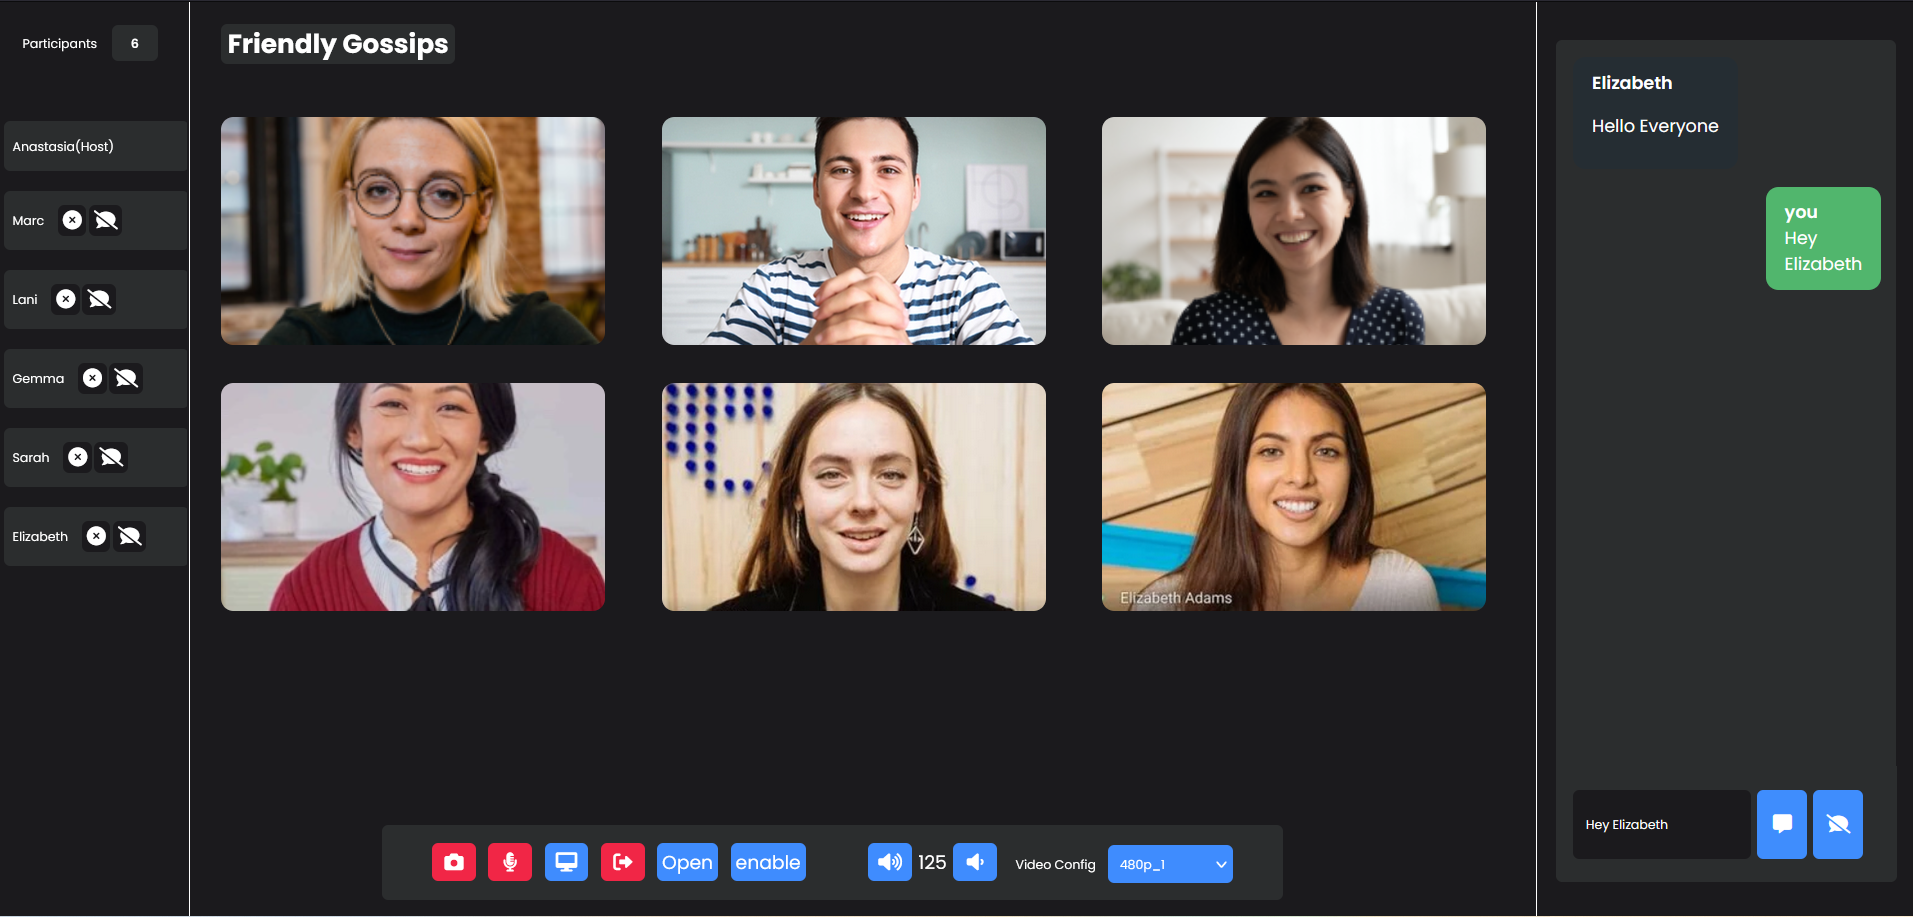
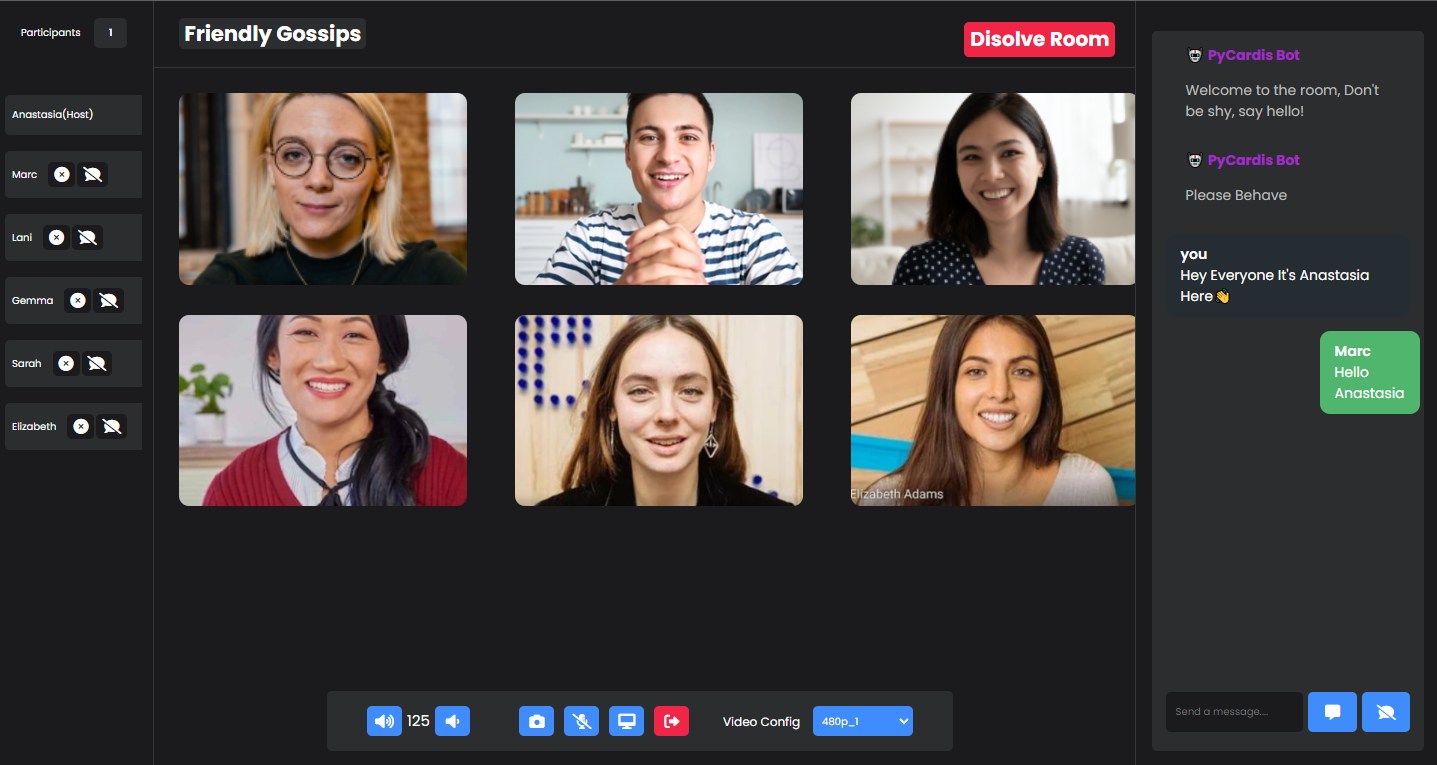
Added Updated Preview

diff --git a/src/components/RoomComponents/ChatRoom.js b/src/components/RoomComponents/ChatRoom.js
@@ -4,16 +4,16 @@ import { createChannel } from 'agora-rtm-react'
 import '../../Styles/room.css'
 import AgoraRTM from 'agora-rtm-sdk'
 
-import {  useSelector } from "react-redux";
+import { useSelector } from "react-redux";
 
-import {  selectUser } from "./../../features/userSlice";
+import { selectUser } from "./../../features/userSlice";
 import { useNavigate } from 'react-router-dom';
 const USER_ID = Math.floor(Math.random() * 1000000001);
 let type = 'bot';
 const useChannel = createChannel('TV')
 const client = AgoraRTM.createInstance(process.env.REACT_APP_AGORA_APP_ID);
 function ChatRoom(props) {
-   
+
     const testChannel = useChannel(client);
     const [texts, setTexts] = useState([]);
     const [uid, setUid] = useState('');
@@ -26,7 +26,7 @@ function ChatRoom(props) {
     const tracks = props.tracks;
     const clientRTC = props.clientRTC;
     const navigate = useNavigate();
-   // let uid2 = props.uid;
+    // let uid2 = props.uid;
     let { disolve } = props;
     const sendMsg = async (text, hide) => {
         console.log(disolve);
@@ -140,27 +140,27 @@ function ChatRoom(props) {
         navigate('/Lobby');
 
     }
-/*    const toggleVideo = async (uid) => {
-        var peerId = uid.toString();
-        console.warn(peerId);
-        console.warn("Remote Video Button Pressed");
-        let peerMessage = "video";
-        await client.sendMessageToPeer(
-            { text: peerMessage },
-            uid,
-        ).then(sendResult => {
-            if (sendResult.hasPeerReceived) {
-                console.warn(sendResult.hasPeerReceived);
-                //document.getElementById("log").appendChild(document.createElement('div')).append("Message has been received by: " + peerId + " Message: " + peerMessage)
-
-            } else {
-                console.warn(sendResult.hasPeerReceived);
-                //document.getElementById("log").appendChild(document.createElement('div')).append("Message sent to: " + peerId + " Message: " + peerMessage)
-
-            }
-        })
-    }
-    */
+    /*    const toggleVideo = async (uid) => {
+            var peerId = uid.toString();
+            console.warn(peerId);
+            console.warn("Remote Video Button Pressed");
+            let peerMessage = "video";
+            await client.sendMessageToPeer(
+                { text: peerMessage },
+                uid,
+            ).then(sendResult => {
+                if (sendResult.hasPeerReceived) {
+                    console.warn(sendResult.hasPeerReceived);
+                    //document.getElementById("log").appendChild(document.createElement('div')).append("Message has been received by: " + peerId + " Message: " + peerMessage)
+    
+                } else {
+                    console.warn(sendResult.hasPeerReceived);
+                    //document.getElementById("log").appendChild(document.createElement('div')).append("Message sent to: " + peerId + " Message: " + peerMessage)
+    
+                }
+            })
+        }
+        */
     const action = async (uid, action) => {
         let text = "Action:" + action + "->User:" + uid;
         console.warn(text);
@@ -190,73 +190,73 @@ function ChatRoom(props) {
                 <div id="members__header">
                     <p>Participants</p>
                     <strong id="members__count">{users.length}</strong>
-                    
+
                 </div>
 
                 <div id="member__list">
-                   
-                    <div  className="member__wrapper" id="member__1__wrapper">
+
+                    <div className="member__wrapper" id="member__1__wrapper">
 
 
-                     <p  style={{marginLeft:'7px'}}  className="member_name">Anastasia(Host)</p>
+                        <p style={{ marginLeft: '7px' }} className="member_name">Anastasia(Host)</p>
 
 
-           </div>
-           <div  className="member__wrapper" id="member__1__wrapper">
+                    </div>
+                    <div className="member__wrapper" id="member__1__wrapper">
 
 
-                     <p  style={{marginLeft:'7px'}}  className="member_name">Marc </p>
+                        <p style={{ marginLeft: '7px' }} className="member_name">Marc </p>
 
-                     <div style={{display:'inherit'}}>
-                          <button ><i class="fa-solid fa-circle-xmark"></i></button>
+                        <div style={{ display: 'inherit' }}>
+                            <button ><i class="fa-solid fa-circle-xmark"></i></button>
 
-                          <button><i class="fa-solid fa-comment-slash"></i></button>
-                     </div>
-           </div>
-           <div  className="member__wrapper" id="member__1__wrapper">
-
-
-                     <p  style={{marginLeft:'7px'}}  className="member_name">Lani </p>
-
-                     <div style={{display:'inherit'}}>
-                          <button ><i class="fa-solid fa-circle-xmark"></i></button>
-
-                          <button><i class="fa-solid fa-comment-slash"></i></button>
-                     </div>
-           </div>
-           <div  className="member__wrapper" id="member__1__wrapper">
+                            <button><i class="fa-solid fa-comment-slash"></i></button>
+                        </div>
+                    </div>
+                    <div className="member__wrapper" id="member__1__wrapper">
 
 
-                     <p  style={{marginLeft:'7px'}}  className="member_name">Gemma </p>
+                        <p style={{ marginLeft: '7px' }} className="member_name">Lani </p>
 
-                     <div style={{display:'inherit'}}>
-                          <button ><i class="fa-solid fa-circle-xmark"></i></button>
+                        <div style={{ display: 'inherit' }}>
+                            <button ><i class="fa-solid fa-circle-xmark"></i></button>
 
-                          <button><i class="fa-solid fa-comment-slash"></i></button>
-                     </div>
-           </div>
-           <div  className="member__wrapper" id="member__1__wrapper">
-
-
-                     <p  style={{marginLeft:'7px'}}  className="member_name">Sarah </p>
-
-                     <div style={{display:'inherit'}}>
-                          <button ><i class="fa-solid fa-circle-xmark"></i></button>
-
-                          <button><i class="fa-solid fa-comment-slash"></i></button>
-                     </div>
-           </div>
-           <div  className="member__wrapper" id="member__1__wrapper">
+                            <button><i class="fa-solid fa-comment-slash"></i></button>
+                        </div>
+                    </div>
+                    <div className="member__wrapper" id="member__1__wrapper">
 
 
-                     <p  style={{marginLeft:'7px'}}  className="member_name">Elizabeth </p>
+                        <p style={{ marginLeft: '7px' }} className="member_name">Gemma </p>
 
-                     <div style={{display:'inherit'}}>
-                          <button ><i class="fa-solid fa-circle-xmark"></i></button>
+                        <div style={{ display: 'inherit' }}>
+                            <button ><i class="fa-solid fa-circle-xmark"></i></button>
 
-                          <button><i class="fa-solid fa-comment-slash"></i></button>
-                     </div>
-           </div>
+                            <button><i class="fa-solid fa-comment-slash"></i></button>
+                        </div>
+                    </div>
+                    <div className="member__wrapper" id="member__1__wrapper">
+
+
+                        <p style={{ marginLeft: '7px' }} className="member_name">Sarah </p>
+
+                        <div style={{ display: 'inherit' }}>
+                            <button ><i class="fa-solid fa-circle-xmark"></i></button>
+
+                            <button><i class="fa-solid fa-comment-slash"></i></button>
+                        </div>
+                    </div>
+                    <div className="member__wrapper" id="member__1__wrapper">
+
+
+                        <p style={{ marginLeft: '7px' }} className="member_name">Elizabeth </p>
+
+                        <div style={{ display: 'inherit' }}>
+                            <button ><i class="fa-solid fa-circle-xmark"></i></button>
+
+                            <button><i class="fa-solid fa-comment-slash"></i></button>
+                        </div>
+                    </div>
                     {/* {users.slice(1, 10).map(user => (
                         <div key={user.uid} className="member__wrapper" id="member__1__wrapper">
 
@@ -283,19 +283,36 @@ function ChatRoom(props) {
             <section id="messages__container">
 
                 <div id="messages">
-                    {/* <div className="message__wrapper">
-            <div className="message__body__bot">
-                <strong className="message__author__bot">🤖 PyCardis Bot</strong>
-                <p className="message__text__bot">Welcome to the room, Don't be shy, say hello!</p>
-            </div>
-        </div>
+                    <div className="message__wrapper">
+                        <div className="message__body__bot">
+                            <strong className="message__author__bot">🤖 PyCardis Bot</strong>
+                            <p className="message__text__bot">Welcome to the room, Don't be shy, say hello!</p>
+                        </div>
+                    </div>
 
-        <div className="message__wrapper">
-            <div className="message__body__bot">
-                <strong className="message__author__bot">🤖 PyCardis Bot</strong>
-                <p className="message__text__bot">Dennis Ivy just entered the room!</p>
-            </div>
-        </div> */}
+                    <div className="message__wrapper">
+                        <div className="message__body__bot">
+                            <strong className="message__author__bot">🤖 PyCardis Bot</strong>
+                            <p className="message__text__bot">Please Behave
+                            </p>
+                        </div>
+                    </div>
+                    <div  style={{ color: 'white', marginLeft:  '1em'  }} onClick={(e) => {
+                    }} className="message__wrapper">
+                        <div style={{ color: 'white', backgroundColor:  '#252D33'  }} className={`message__body`}>
+                            <strong style={{ color: 'white' }} className="message__author">you</strong>
+
+                            <p className={`message__text`}>Hey Everyone It's Anastasia Here👋</p>
+                        </div>
+                    </div>
+                    <div  style={{ color: 'white', marginLeft: '12em' }} onClick={(e) => {
+                    }} className="message__wrapper">
+                        <div style={{ color: 'white', backgroundColor: '#51B66D' }} className={`message__body`}>
+                            <strong style={{ color: 'white' }} className="message__author">Marc</strong>
+
+                            <p className={`message__text`}>Hello Anastasia</p>
+                        </div>
+                    </div>
 
                     {texts.map((text, i) =>
                         <div key={i} style={{ color: 'white', marginLeft: `${text.uid.user ? '1em' : '12em'}` }} onClick={(e) => {

diff --git a/src/components/RoomComponents/Display.js b/src/components/RoomComponents/Display.js
@@ -182,11 +182,11 @@ function Display(props) {
 
         <div  id="stream__container">  
         <div style={{position:'relative',width:'100%'}}> 
-        <div className="Room__Name"><h1>{x.room}</h1></div>
+        <div className="Room__Name" style={{width:'fit-content'}}><h1>Friendly Gossips</h1></div>
         
         <button onClick={()=>{
           props.onChange();
-        }} style={{display: `${sessionStorage.getItem('authTokens') !== null ? 'inherit' : 'none'}`,position:'absolute',top:'10%',right:'2%'}} id="disolve"><h1>Disolve {x.room}</h1></button>
+        }} style={{position:'absolute',top:'10%',right:'2%'}} id="disolve"><h1>Disolve Room</h1></button>
        
         
          </div>  
